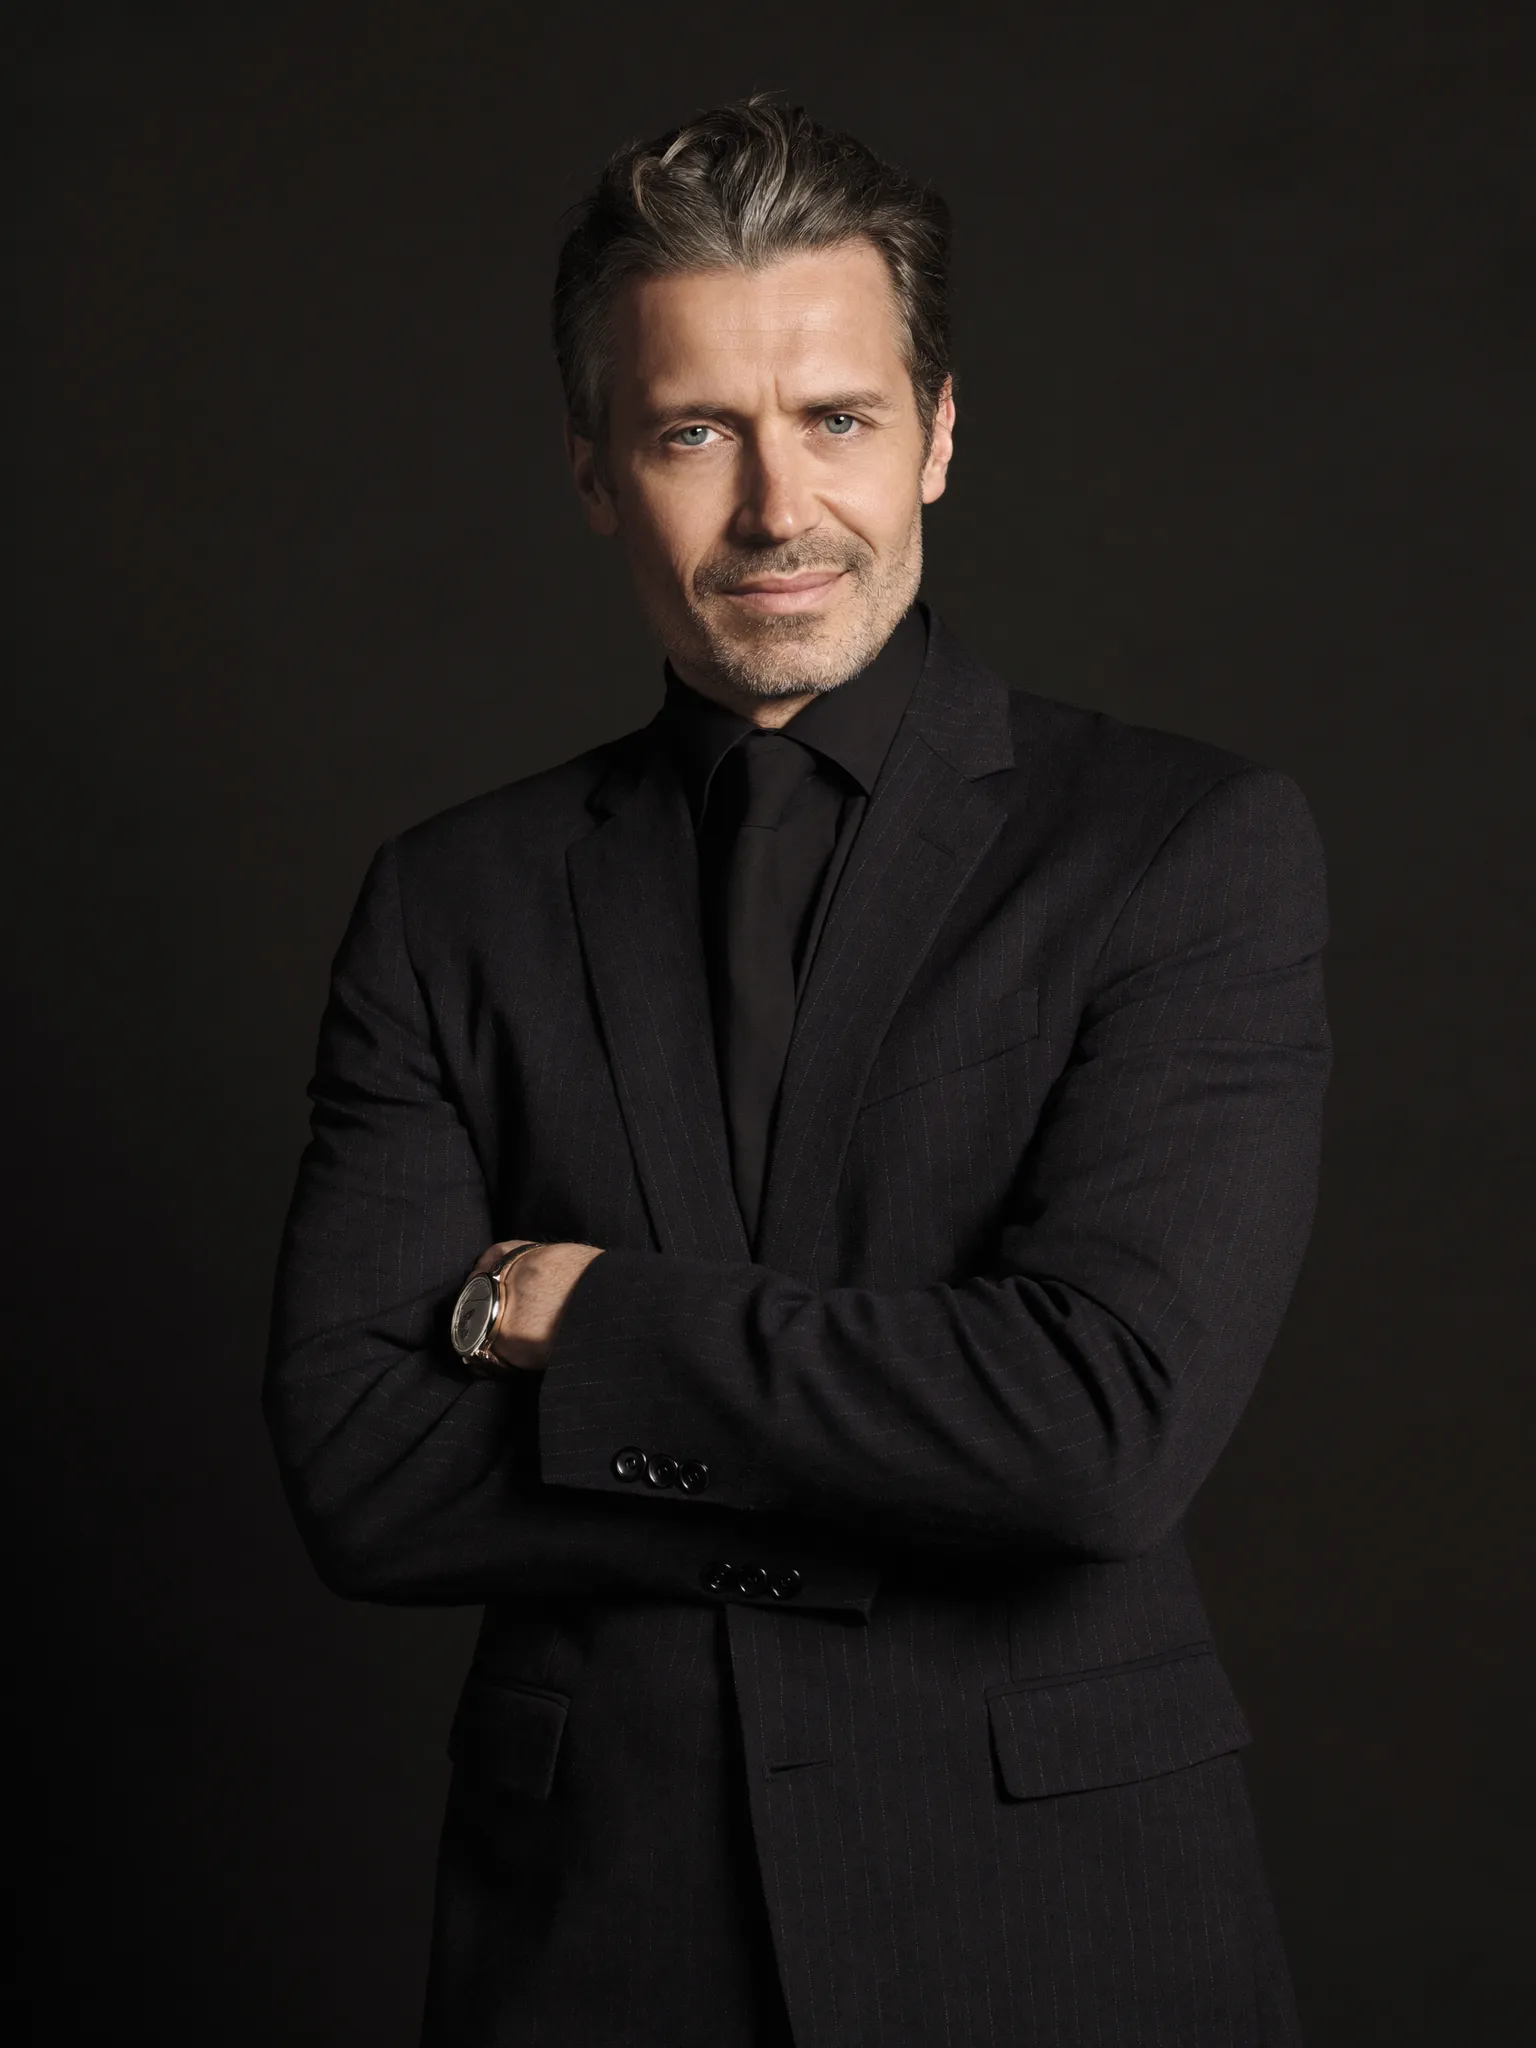
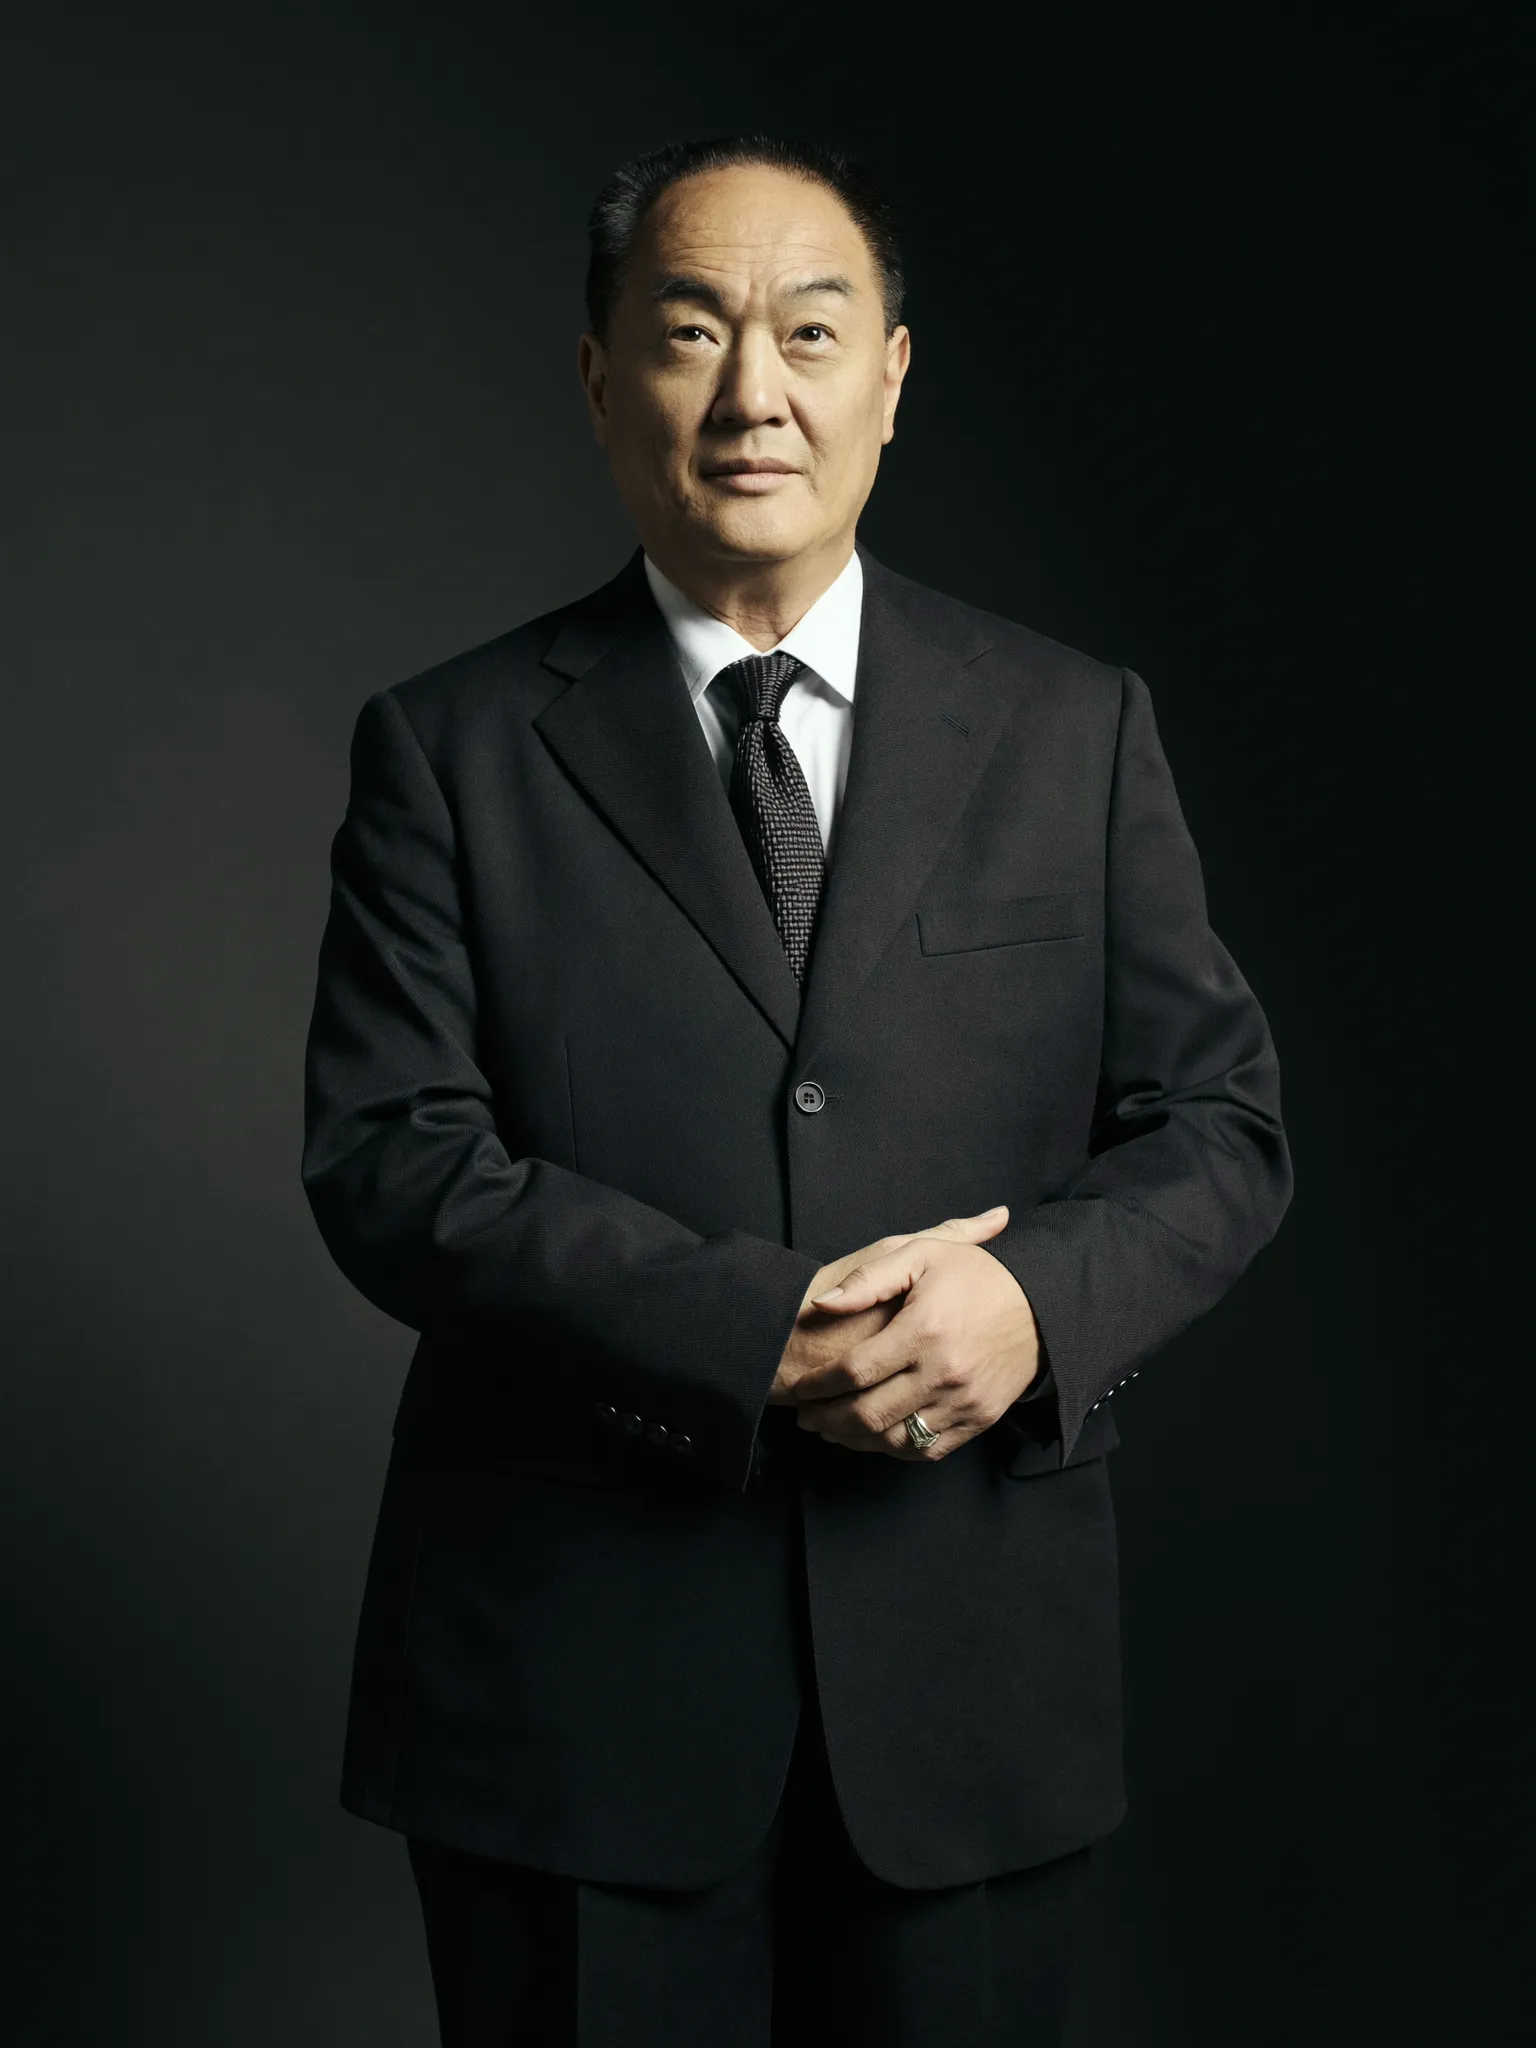
fix: 修正 hero 文字被背景蓋住 + 英文改中文 + 團隊換台灣臉孔
- 修 hero 文字消失 bug：文字容器加 z-index，浮在背景圖之上（原被 absolute 背景蓋住）
- hero 大標題與 section 標題英文改繁體中文（構築明日的建築、精選作品、設計理念等）
- 團隊 3 張人像重生為台灣/亞洲臉孔（主打台灣市場）

diff --git a/index.html b/index.html
@@ -187,6 +187,9 @@ footer{background:var(--dark);border-top:1px solid rgba(255,255,255,0.05)}
 .reveal-left.visible{opacity:1;transform:none}
 
 .hero-img,.proj-img,.team-img{width:100%;height:100%;object-fit:cover;display:block}
+
+.hero-tag,.hero-h1,.hero-sub,.hero-scroll{position:relative;z-index:2}
+.hero-bg{z-index:1}
 </style>
 
 <style>
@@ -251,10 +254,10 @@ nav .nav-num,nav .nav-en,nav .nav-foot{display:none}
   </a>
   <nav>
     <div class="nav-inner">
-      <a href="index.html" class="active" style="--i:1"><span class="nav-num">01</span><span class="nav-zh">首頁</span><span class="nav-en">Home</span></a>
-      <a href="projects.html" style="--i:2"><span class="nav-num">02</span><span class="nav-zh">作品</span><span class="nav-en">Projects</span></a>
-      <a href="philosophy.html" style="--i:3"><span class="nav-num">03</span><span class="nav-zh">理念</span><span class="nav-en">Philosophy</span></a>
-      <a href="team.html" style="--i:4"><span class="nav-num">04</span><span class="nav-zh">團隊</span><span class="nav-en">Team</span></a>
+      <a href="index.html" class="active" style="--i:1"><span class="nav-num">01</span><span class="nav-zh">首頁</span><span class="nav-en">首頁</span></a>
+      <a href="projects.html" style="--i:2"><span class="nav-num">02</span><span class="nav-zh">作品</span><span class="nav-en">作品</span></a>
+      <a href="philosophy.html" style="--i:3"><span class="nav-num">03</span><span class="nav-zh">理念</span><span class="nav-en">設計理念</span></a>
+      <a href="team.html" style="--i:4"><span class="nav-num">04</span><span class="nav-zh">團隊</span><span class="nav-en">團隊</span></a>
       <a href="contact.html" class="nav-cta" style="--i:5">洽談合作</a>
       <div class="nav-foot" style="--i:6"><div class="nav-foot-brand">構石建築 · Gòushí</div><div class="nav-foot-tag">以幾何與石構，定義空間的詩意</div></div>
     </div>
@@ -272,9 +275,9 @@ nav .nav-num,nav .nav-en,nav .nav-foot{display:none}
     <span>台灣前衛建築設計 · Established 2015</span>
   </div>
   <h1 class="hero-h1 reveal-left">
-    <span>Building</span>
-    <span class="light">Tomorrow's</span>
-    <span>Architecture</span>
+    <span>構築</span>
+        <span class="light">明日</span>
+        <span>的建築</span>
   </h1>
   <div class="hero-sub reveal">
     <p class="hero-desc">構石建築師事務所是一間立足台灣、放眼國際的前衛建築設計機構。我們相信建築不只是建造——它是一種對居住者生命、社區脈絡與自然環境的深刻回應。</p>
@@ -285,13 +288,13 @@ nav .nav-num,nav .nav-en,nav .nav-foot{display:none}
   </div>
   <div class="hero-scroll">
     <div class="hero-scroll-line"></div>
-    <span>Scroll</span>
+    <span>向下捲動</span>
   </div>
 </section><section class="projects" id="projects">
   <div class="projects-inner">
     <div class="projects-header reveal">
       <div>
-        <div class="sec-label">Selected Works</div>
+        <div class="sec-label">精選作品</div>
         <h2 class="sec-h2">精選作品</h2>
       </div>
       <a href="index.html" class="btn-line">全部作品</a>
@@ -366,7 +369,7 @@ nav .nav-num,nav .nav-en,nav .nav-foot{display:none}
 </section><section class="cta" id="contact">
   <div class="cta-inner">
     <div class="cta-left reveal-left">
-      <div class="cta-label">Start a Project</div>
+      <div class="cta-label">開始合作</div>
       <h2 class="cta-h2">讓我們<br>一起<span class="thin">建造</span><br>你的想像</h2>
       <p class="cta-desc">無論是一棟私人住宅、一個商業空間，還是一個城市願景，我們期待聆聽你的故事，並以建築回應它。</p>
       <div class="cta-btns">
@@ -377,7 +380,7 @@ nav .nav-num,nav .nav-en,nav .nav-foot{display:none}
     <div class="cta-right reveal">
       <div class="cta-contact-list">
         <div class="cta-contact-item">
-          <span class="cta-contact-label">Studio</span>
+          <span class="cta-contact-label">事務所</span>
           <span class="cta-contact-val">台北市中山區中山北路二段 88 號 6F</span>
         </div>
         <div class="cta-contact-item">
@@ -385,11 +388,11 @@ nav .nav-num,nav .nav-en,nav .nav-foot{display:none}
           <span class="cta-contact-val">02-2712-0999</span>
         </div>
         <div class="cta-contact-item">
-          <span class="cta-contact-label">Email</span>
+          <span class="cta-contact-label">電子郵件</span>
           <span class="cta-contact-val">[email redacted]</span>
         </div>
         <div class="cta-contact-item">
-          <span class="cta-contact-label">Hours</span>
+          <span class="cta-contact-label">服務時間</span>
           <span class="cta-contact-val">週一至週五 10:00—18:00</span>
         </div>
         <div class="cta-contact-item">